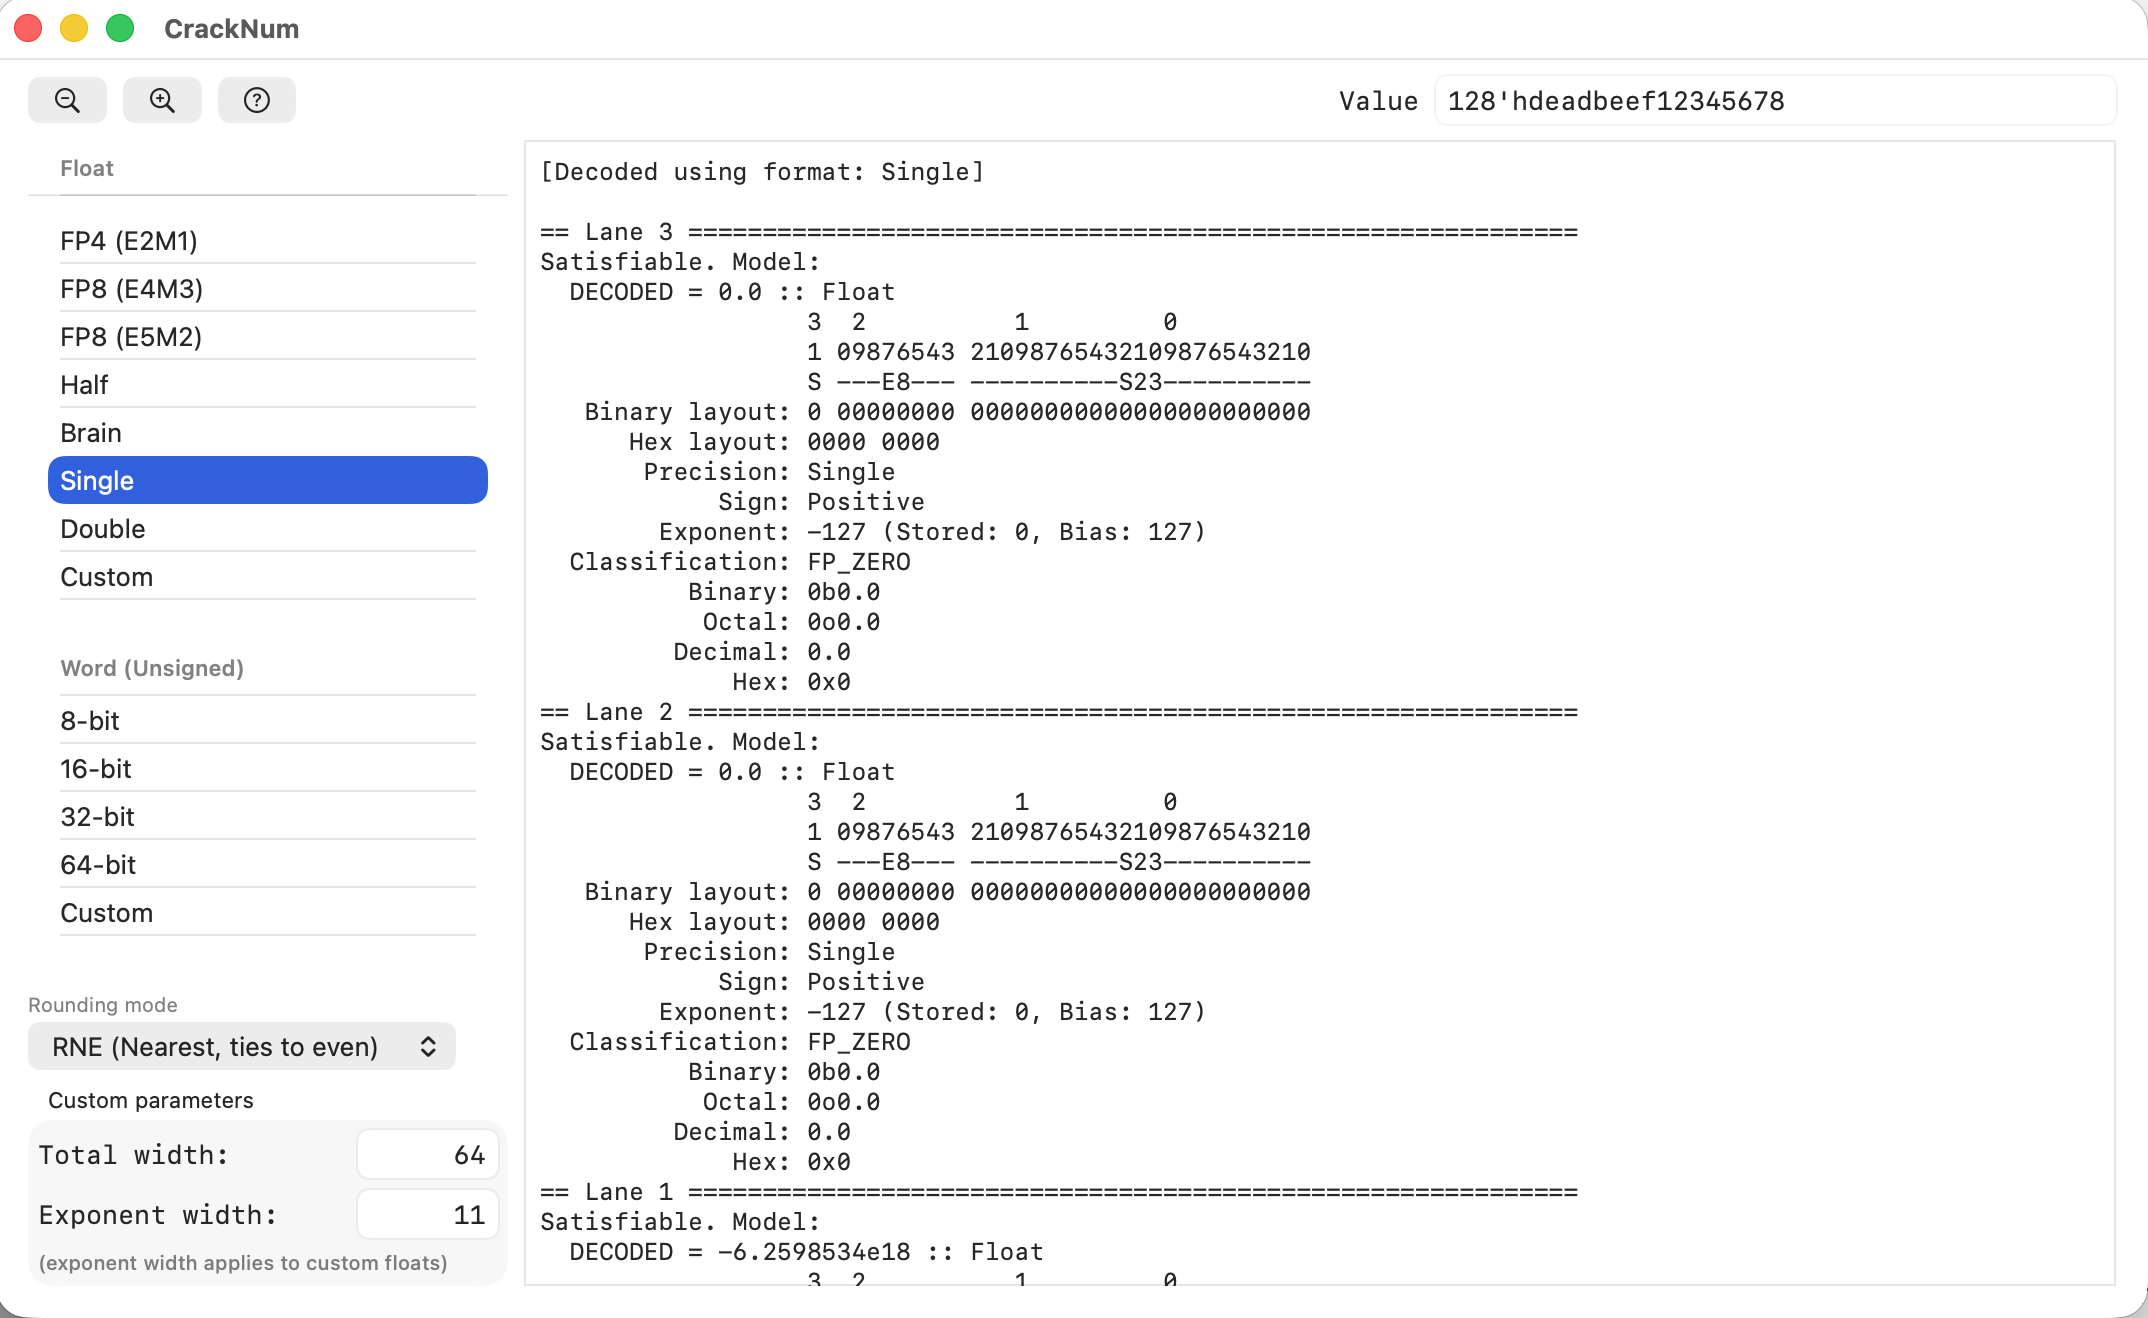
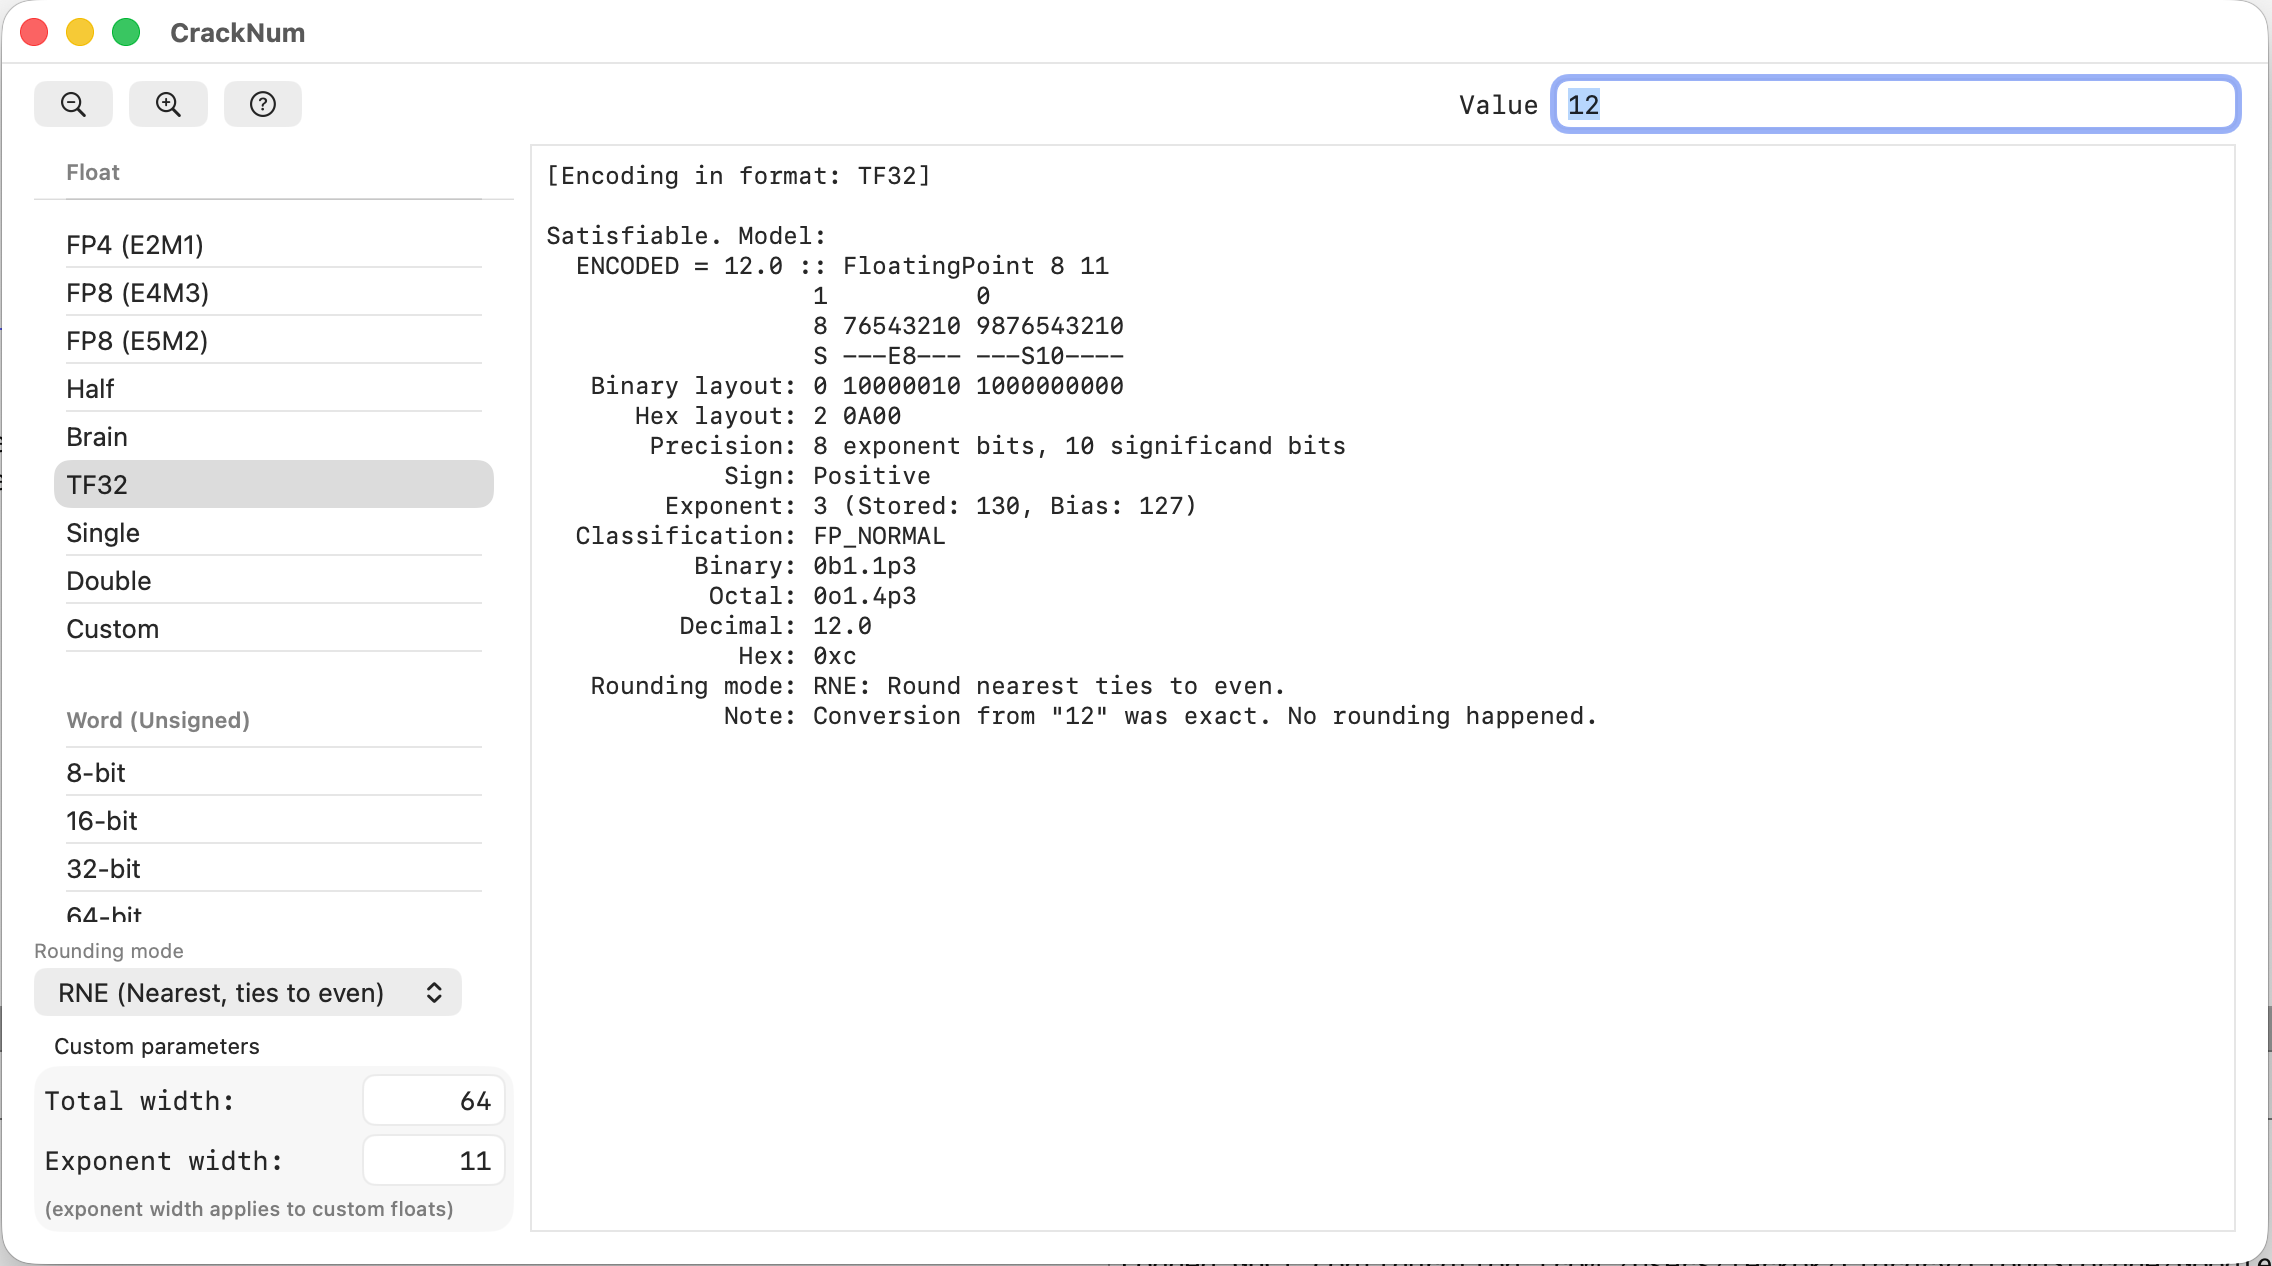
Release 3.21: add support for TF32
TF32 (TensorFloat-32) is the 19-bit format with 8 exponent and 10
significand bits, i.e. the exponent range of single precision with the
significand of half precision. Available via -ftf32, in both the CLI and
the GUIs. We crack the 19 architectural bits; hardware typically carries
these in a 32-bit container with the remaining bits unused.

Also fix a long-standing typo in the -f help text, where dp was
described as "Single precision".

diff --git a/GUI/swiftGUI/Sources/CrackNum/CrackNum.swift b/GUI/swiftGUI/Sources/CrackNum/CrackNum.swift
@@ -112,6 +112,7 @@ let formatSections: [FormatSection] = [
         Format(id: "fe5m2", label: "FP8 (E5M2)", kind: .fixedFloat("fe5m2")),
         Format(id: "fhp",   label: "Half",       kind: .fixedFloat("fhp")),
         Format(id: "fbp",   label: "Brain",      kind: .fixedFloat("fbp")),
+        Format(id: "ftf32", label: "TF32",       kind: .fixedFloat("ftf32")),
         Format(id: "fsp",   label: "Single",     kind: .fixedFloat("fsp")),
         Format(id: "fdp",   label: "Double",     kind: .fixedFloat("fdp")),
         Format(id: "fcs",   label: "Custom",     kind: .customFloat),
@@ -280,6 +281,7 @@ extension Model {
         case "dp":   p.formatCode = "fdp"
         case "hp":   p.formatCode = "fhp"
         case "bp":   p.formatCode = "fbp"
+        case "tf32": p.formatCode = "ftf32"
         case "e4m3": p.formatCode = "fe4m3"
         case "e5m2": p.formatCode = "fe5m2"
         case "fp4":  p.formatCode = "ffp4"

diff --git a/README.md b/README.md
@@ -175,6 +175,7 @@ Examples:
    crackNum -f3+4  2.5                      -- encode as float with 3 bits exponent, 4 bits significand
    crackNum -f3+4  2.5 -rRTZ                -- encode as above, but use RTZ rounding mode.
    crackNum -fbp   2.5                      -- encode as a brain-precision float
+   crackNum -ftf32 2.5                      -- encode as a TensorFloat-32 float
    crackNum -fdp   2.5                      -- encode as a double-precision float
    crackNum -fe4m3 2.5                      -- encode as an E4M3 FP8 float
    crackNum -fe5m2 2.5                      -- encode as an E5M2 FP8 float
@@ -186,6 +187,7 @@ Examples:
    crackNum -w4      0xE                   -- decode as 4-bit unsigned integer, from hex
    crackNum -f3+4    0b0111001             -- decode as float with 3 bits exponent, 4 bits significand
    crackNum -fbp     0x000F                -- decode as a brain-precision float
+   crackNum -ftf32   19\'h0000F            -- decode as a TensorFloat-32 float
    crackNum -fdp     0x8000000000000000    -- decode as a double-precision float
    crackNum -fhp     0x8000                -- decode as a half-precision float
    crackNum -ffp4    0b0111                -- decode as an FP4 (E2M1) float

diff --git a/CHANGES.md b/CHANGES.md
@@ -1,7 +1,15 @@
 * Hackage: <http://hackage.haskell.org/package/crackNum>
 * GitHub:  <http://github.com/LeventErkok/crackNum/>
 
-* Latest Hackage released version: 3.20, 2026-08-13
+* Latest Hackage released version: 3.21, 2026-08-16
+
+### Version 3.21, 2026-08-16
+
+  * Add support for TF32 (TensorFloat-32), via `-ftf32`. This is the 19-bit format
+    with 8 exponent and 10 significand bits, i.e., the exponent range of single
+    precision with the significand of half precision. Note that we crack the 19
+    architectural bits; hardware typically carries these in a 32-bit container
+    with the remaining bits unused.
 
 ### Version 3.20, 2026-08-13
 
